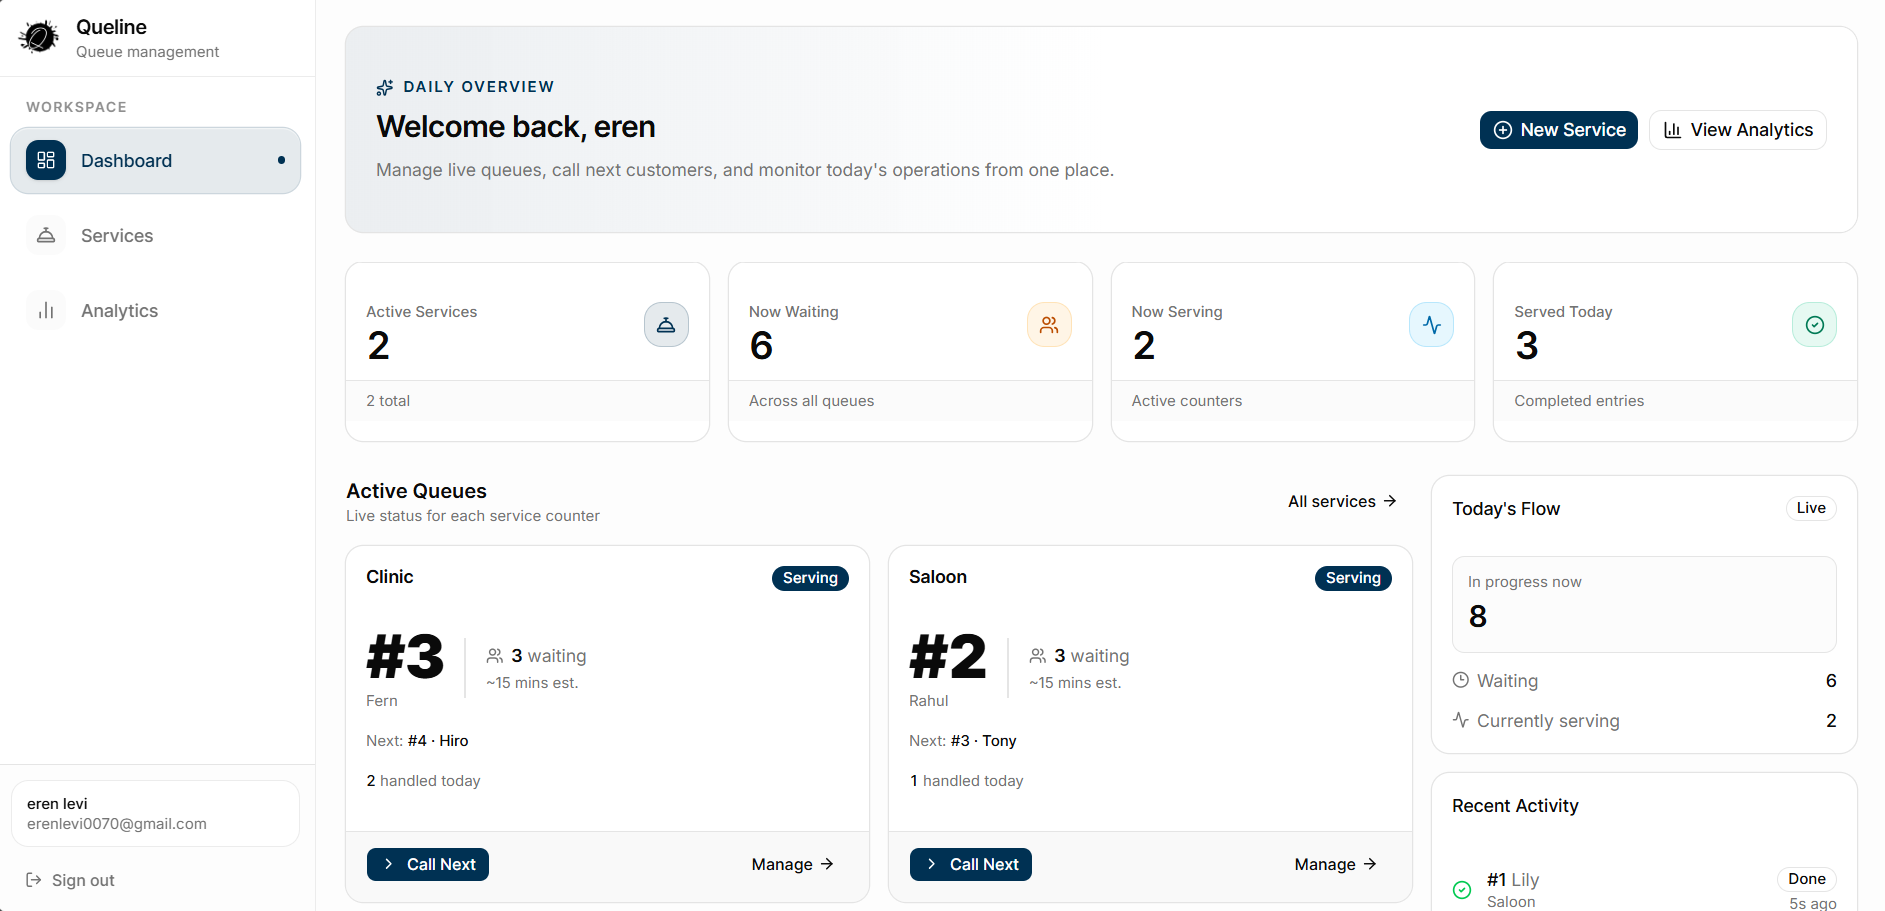
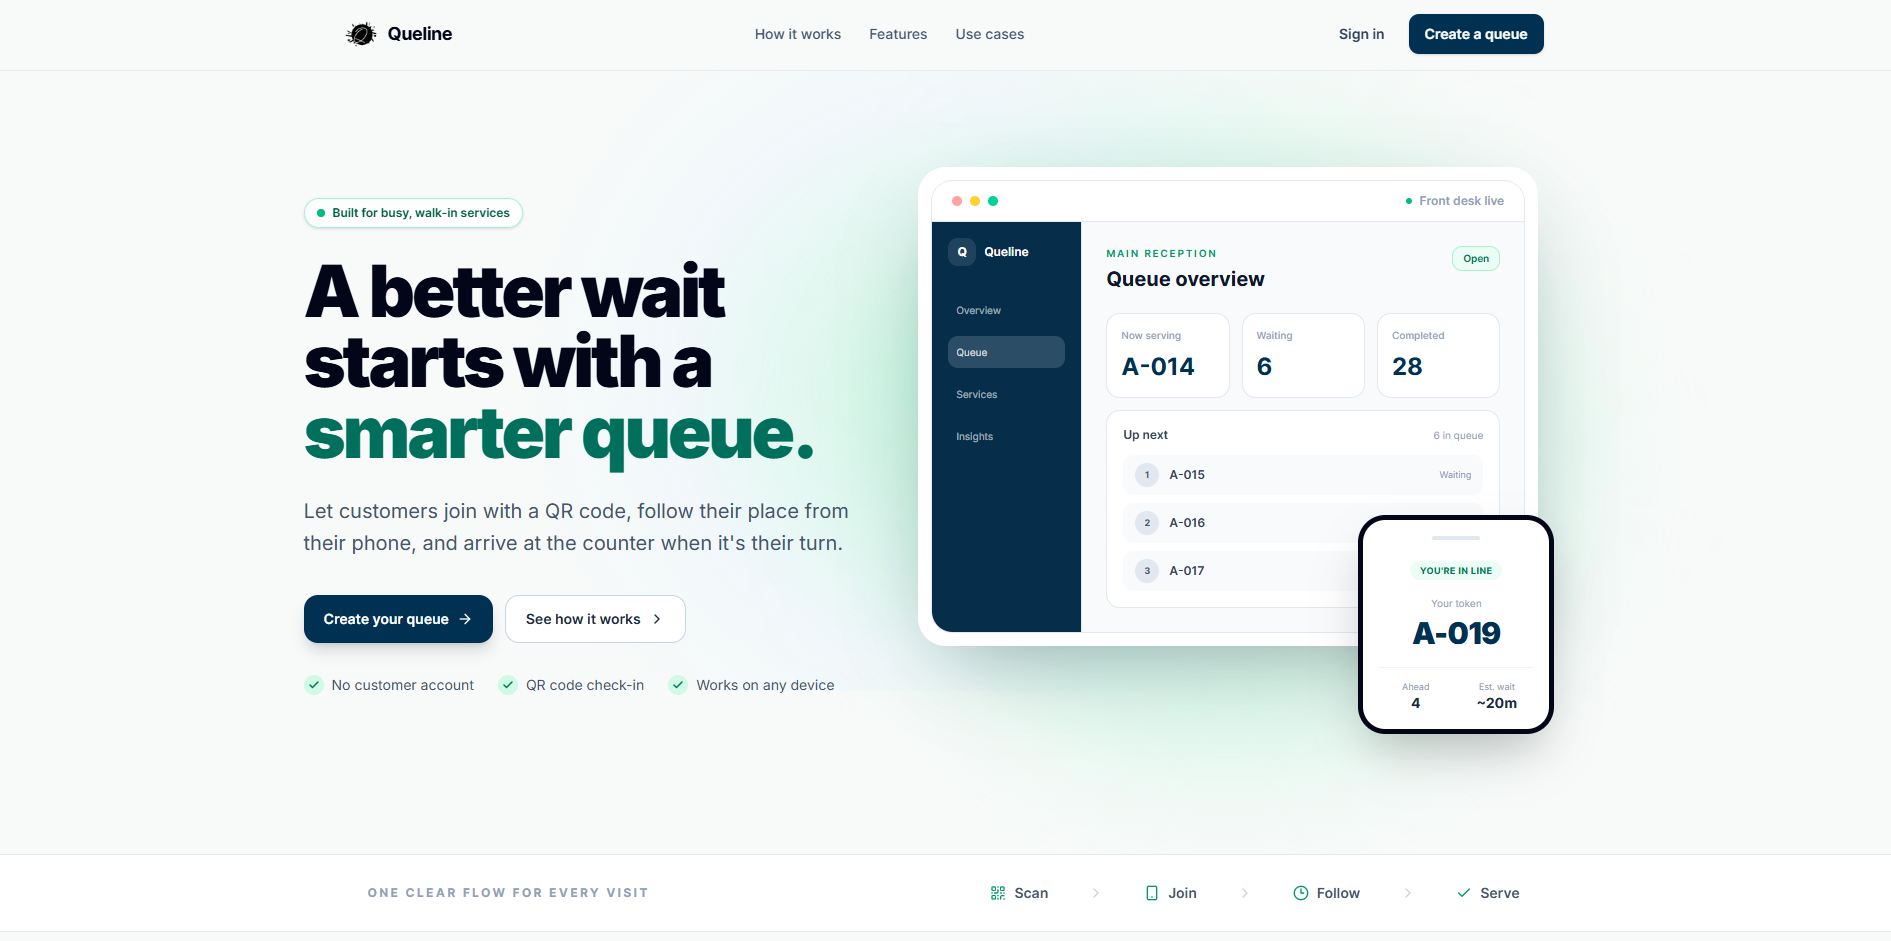
Update projects

diff --git a/src/components/projects.jsx b/src/components/projects.jsx
@@ -4,10 +4,48 @@ import queueflowImg from "../assets/queueflow.png";
 import formoraImg from "../assets/formora.png";
 import fashshopImg from "../assets/fashshop.png";
 import nikeImg from "../assets/nike.png";
-import storeImg from "../assets/store.png";
 import portfolioImg from "../assets/portfolio.png";
 import edusuiteImg from "../assets/edusuite.png";
+import gigpulseImg from "../assets/gigpulse.png";
 const projectList = [
+  {
+    name: "GigPulse",
+    category: "major",
+    tags: [
+      "Next.js",
+      "React",
+      "TypeScript",
+      "Node.js",
+      "Express.js",
+      "MySQL",
+      "Prisma",
+      "Oracle Cloud (VPS)",
+      "Nginx",
+    ],
+    desc: "A freelance CRM and operations platform with client and lead management, an interactive Kanban board, invoices and proposals, and secure role-based JWT authentication.",
+    image: gigpulseImg,
+    github: "https://github.com/jainoos007/GigPulse",
+    website: "https://gigpulse.jainoos.xyz",
+  },
+  {
+    name: "Queueline",
+    category: "major",
+    tags: [
+      "Next.js",
+      "React",
+      "TypeScript",
+      "Node.js",
+      "Express.js",
+      "PostgreSQL",
+      "Prisma ORM",
+      "Oracle Cloud (VPS)",
+      "Nginx",
+    ],
+    desc: "A real-time digital queue management system that replaces physical waiting lines with token-based tracking, live position updates, and smart wait-time estimation.",
+    image: queueflowImg,
+    github: "https://github.com/jainoos007/Queline",
+    website: "https://queline.jainoos.xyz",
+  },
   {
     name: "EduSuite",
     category: "major",
@@ -23,15 +61,6 @@ const projectList = [
     image: edusuiteImg,
     github: "https://github.com/jainoos007/EduSuite",
     website: "https://student-management.jainoos.xyz/",
-  },
-  {
-    name: "Queueline",
-    category: "major",
-    tags: ["Next.js", "Tailwind CSS", "PostgreSQL", "Prisma", "System Design"],
-    desc: "A real-time digital queue management system that replaces physical waiting lines with token-based tracking, live position updates, and smart wait-time estimation.",
-    image: queueflowImg,
-    github: "https://github.com/jainoos007/Queline",
-    website: "https://queline.vercel.app/login",
   },
   {
     name: "Formora",
@@ -50,7 +79,6 @@ const projectList = [
   },
   {
     name: "FashShop",
-    category: "fun",
     category: "fun",
     tags: ["React.js", "Tailwind CSS", "UI/UX"],
     desc: "A responsive fashion e-commerce website featuring dynamic product displays, dark mode, and an engaging user experience across devices.",
@@ -76,16 +104,6 @@ const projectList = [
     github: "https://github.com/jainoos007/portfolio",
     website: "https://jainoos.xyz",
   },
-  {
-    name: "Product Store App",
-    category: "major",
-    tags: ["MongoDB", "Express.js", "React", "Node.js", "MERN"],
-    desc: "A full-stack product management application with complete CRUD functionality and a scalable backend architecture.",
-    image: storeImg,
-    github: "https://github.com/jainoos007/Product-Store",
-    website: "https://product-store-1-tna3.onrender.com/",
-  },
-  
 ];
 
 export default function Projects() {
